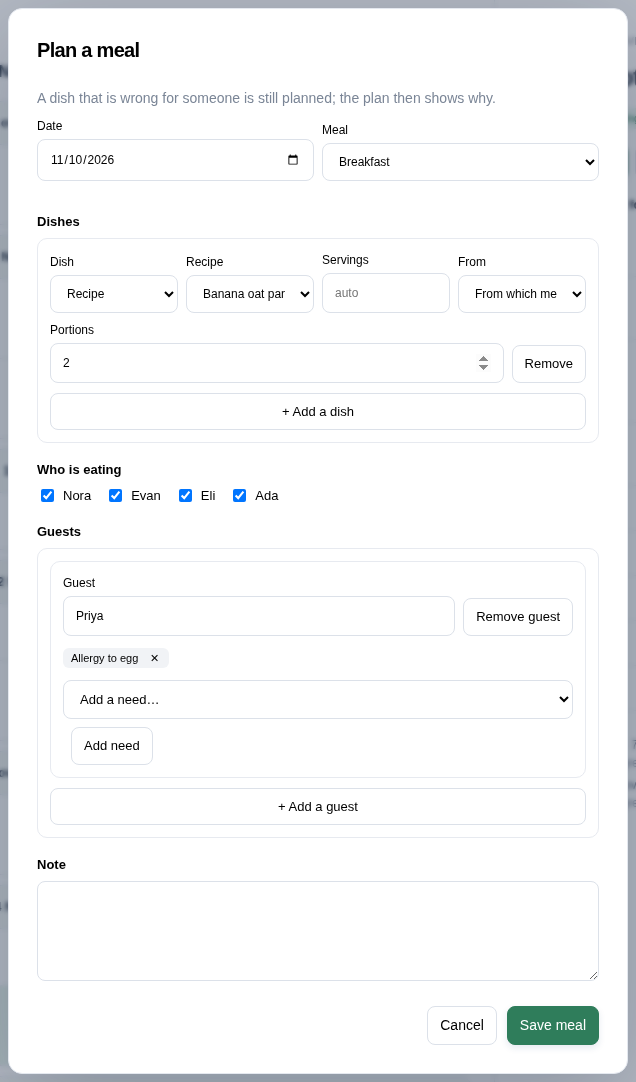
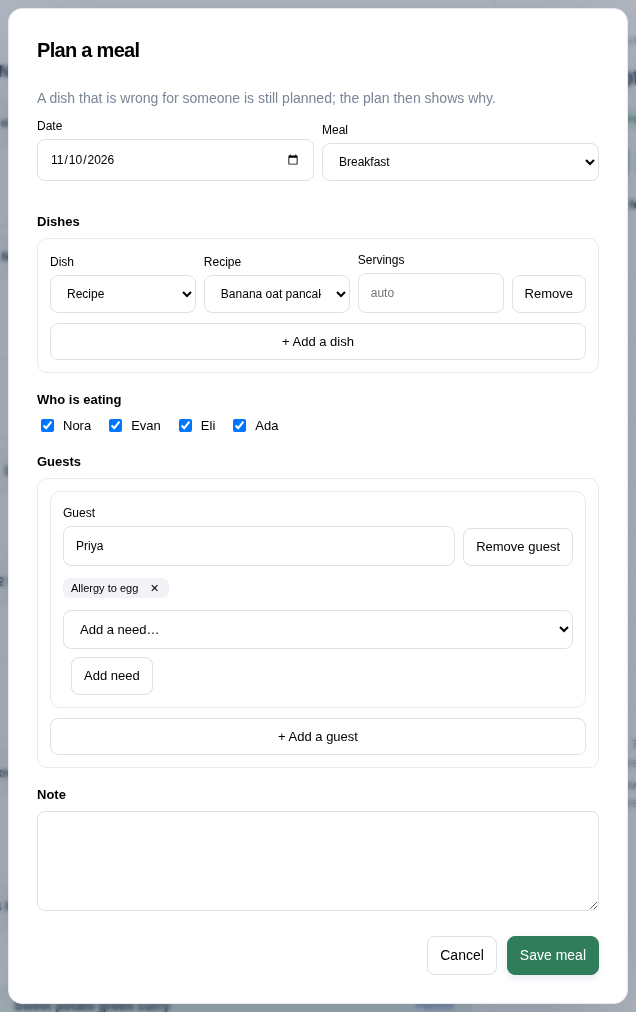
fix(platewright): never render elements the page hides, and check what each form shows
The page's stylesheet starts with a rule that makes the hidden attribute win,
so a recipe dish no longer shows the leftovers-only From and Portions fields
(and a leftovers dish no longer shows Recipe and Servings). The browser test
checks the rendered box and focus of each dish kind's fields, the guest need's
value and each kind of household need. The W4 form frames are captured again.

diff --git a/apps/platewright/gui/src/app.js b/apps/platewright/gui/src/app.js
@@ -24,7 +24,9 @@ const VERDICT={unsafe:'Unsafe',may_contain:'May contain',unsuitable:'Unsuitable'
 
 // App-owned layout rules. The Host serves one shared stylesheet and its CSP allows no inline
 // style element, so the controller adopts a constructed stylesheet built from this constant text.
+// Its first rule makes the hidden attribute win over any display a later rule gives an element.
 const CSS=`
+[hidden]{display:none!important}
 body[data-app=platewright]{--accent:#2f7d5b;--soft:#eaf5ef}
 body[data-app=platewright] .sidebar{background:#f3f6f2}
 body[data-app=platewright] .workspace{grid-template-columns:minmax(0,1.3fr) minmax(320px,1fr)}

diff --git a/apps/platewright/gui/README.md b/apps/platewright/gui/README.md
@@ -35,7 +35,7 @@ Ingredient pickers and ingredient names come from the ingredient table (`ingredi
 - Controls for tools that the run's policy does not list are not shown; the Host refuses such calls anyway.
 - App text is inserted only as text nodes (the shared `el()`); the controller has no HTML parsing, no `eval`, no remote fetch. Option lists and limits come from the live tool schemas (`/api/tools`) where the schema enumerates them (units, method tags, constraint kinds, unit systems); the allergen, diet and nutrient names are the plan's fixed vocabularies, and the App validates every value.
 - Records are shown by name: ingredients, recipes, people and meals ("Sat 14 Nov dinner"), never by their IDs. Dates read "20 Nov 2026" throughout. Times are shown as the household recorded them (wall clock and offset of the timestamp), not converted to the browser's zone.
-- Layout rules specific to Platewright are applied by the controller as a constructed stylesheet built from constant text (the Host serves one shared stylesheet and its content security policy allows no inline style element); no App data goes into CSS. The layout works from 390 px (single column, horizontally scrolling navigation) to desktop widths.
+- Layout rules specific to Platewright are applied by the controller as a constructed stylesheet built from constant text (the Host serves one shared stylesheet and its content security policy allows no inline style element); no App data goes into CSS. Its first rule makes an element with the `hidden` attribute never render, whatever display a later rule gives it (the meal form hides the fields of the other dish kind this way). The layout works from 390 px (single column, horizontally scrolling navigation) to desktop widths.
 
 ## Not in the interface
 
@@ -47,5 +47,5 @@ Ingredient pickers and ingredient names come from the ingredient table (`ingredi
 ## Tests
 
 - `npm run test:web` (in `apps/platewright`): `tests/web-smoke.cjs`, no npm dependency. Starts the shared Host on a fresh run and checks the served files, refused paths and Infra routes, session and CSRF, discovery (exactly the 22 Agent tools), reads for five views, six writes (W1–W5) confirmed by an independent Agent MCP connection, a refusal, a stale version, a retried request ID that commits once, and the scenario profile (reads only, writes refused).
-- `npm run test:web:browser` (needs `npm ci && npx playwright install chromium` at the repository root): `tests/web-browser.cjs` clicks through the same workflows in Chromium, checks that earlier meals that were cleared, changed by another member or joined by a guest show the plan they started from, that the recipe form names a missing method and an over-long tag before sending, escaping of a hostile guest name, guests named in several scripts, at 120 characters, with emoji, with punctuation alone or with the same name (each committed with an ID of its own, kept when the meal is changed again), a guest name over the limit stopped in the form, a meal whose guests have recorded needs changed through "Change meal" (the guests and needs read back unchanged over MCP), a meal marked cooked with a pantry shortfall shown as a note, an item added on the shopping list or in the pantry shown in the detail right after, a dropped response followed by a retry, a stale form, a refusal, an Infra event seen after Refresh, reload persistence, that every view with a record selected shows no record ID, slot ID, ISO date, vocabulary key or missing value, no horizontal overflow at 390 px and 1280 px, no JavaScript errors and the restricted profile; it writes screenshots and `report.json` to `.artifacts/web/platewright/` (or `--output DIR`).
+- `npm run test:web:browser` (needs `npm ci && npx playwright install chromium` at the repository root): `tests/web-browser.cjs` clicks through the same workflows in Chromium, checks that earlier meals that were cleared, changed by another member or joined by a guest show the plan they started from, that the recipe form names a missing method and an over-long tag before sending, escaping of a hostile guest name, guests named in several scripts, at 120 characters, with emoji, with punctuation alone or with the same name (each committed with an ID of its own, kept when the meal is changed again), a guest name over the limit stopped in the form, that a dish shows only the fields of its kind (Recipe and Servings, or From and Portions for leftovers: the other kind's fields have no box and take no focus, and nothing the form hides is rendered), that a guest need and each kind of household need show their own fields, a meal whose guests have recorded needs changed through "Change meal" (the guests and needs read back unchanged over MCP), a meal marked cooked with a pantry shortfall shown as a note, an item added on the shopping list or in the pantry shown in the detail right after, a dropped response followed by a retry, a stale form, a refusal, an Infra event seen after Refresh, reload persistence, that every view with a record selected shows no record ID, slot ID, ISO date, vocabulary key or missing value, no horizontal overflow at 390 px and 1280 px, no JavaScript errors and the restricted profile; it writes screenshots and `report.json` to `.artifacts/web/platewright/` (or `--output DIR`).
 - `node scripts/capture-gui-evidence.cjs [--output DIR] [--zopfli]` (same requirement, not part of `npm test`): captures the ordered workflow sequences of [evidence/README.md](../evidence/README.md) at 1280 px and 390 px into `evidence/gui/`, with each step's action, expected and observed result, the MCP read that confirms it and reload checks in `evidence/gui/sequences.md`.

diff --git a/apps/platewright/evidence/gui/sequences.md b/apps/platewright/evidence/gui/sequences.md
@@ -10,12 +10,12 @@ Workflow W4. Same steps asserted in tests/web-browser.cjs (W4 checks).
 | --- | --- | --- | --- | --- |
 | 1 | [w4-01-week.png](w4-01-week.png) (1280x800) | Open the App: Meal plan, the week of 2–8 Nov 2026 (loaded time Sun 8 Nov, 08:00). | Seven days with each meal, who eats it and its state; earlier days read-only, today marked. | 2 Nov – 8 Nov 2026 |
 | 2 | [w4-02-flags.png](w4-02-flags.png) (1280x800) | Next week (›), select Saturday 14 Nov dinner. | The check names each guest the dish is wrong for and the ingredient lines behind it. | Maya: Unsafe; Ines: Unsuitable, with the lines named |
-| 3 | [w4-03-plan-form.png](w4-03-plan-form.png) (1280x1304) | “+ Plan a meal” on Tuesday 10 Nov; Meal: breakfast; Recipe: Banana pancakes; “+ Add a guest” Priya with an egg allergy. | A modal form with the dish, the members at the table and the guest with her need; nothing is written yet. | Form filled, not sent |
+| 3 | [w4-03-plan-form.png](w4-03-plan-form.png) (1280x1234) | “+ Plan a meal” on Tuesday 10 Nov; Meal: breakfast; Recipe: Banana pancakes; “+ Add a guest” Priya with an egg allergy. | A modal form with the dish, the members at the table and the guest with her need; nothing is written yet. | Form filled, not sent |
 | 4 | [w4-04-planned.png](w4-04-planned.png) (1280x800) | Submit “Save meal”. | The form closes; the meal is on Tuesday and selected, with its guest; a dish wrong for her is planned and flagged, not refused. | MCP plan.get: 2026-11-10:breakfast planned, guest Priya, flags Priya: unsafe; App version {"epoch":1,"revision":0} → {"epoch":1,"revision":1} |
-| 5 | [w4-05-change-form.png](w4-05-change-form.png) (1280x1936) | After a reload, select Saturday 14 Nov dinner (Sweet potato green curry; guests Ines, vegetarian, and Maya, strict tree-nut allergy), “Change meal”, Recipe: Nut-free green curry. | The form opens with the saved dish, the people at the table and each guest with her needs; the dish is switched to the variant. | Dish switched in the form; guests and needs as saved |
+| 5 | [w4-05-change-form.png](w4-05-change-form.png) (1280x1866) | After a reload, select Saturday 14 Nov dinner (Sweet potato green curry; guests Ines, vegetarian, and Maya, strict tree-nut allergy), “Change meal”, Recipe: Nut-free green curry. | The form opens with the saved dish, the people at the table and each guest with her needs; the dish is switched to the variant. | Dish switched in the form; guests and needs as saved |
 | 6 | [w4-06-changed.png](w4-06-changed.png) (1280x800) | Submit “Save meal”. | The guests and their needs are kept; Maya is no longer flagged; the history shows the earlier plan and the change. | MCP: dishes rec-nut-free-green-curry; guests Ines (vegetarian), Kofi, Lea, Maya (strict tree nut); flags Ines: unsuitable; history set, guest_added, replaced |
-| 7 | [w4-07-invalid.png](w4-07-invalid.png) (1280x2156) | “Change meal”, “+ Add a guest” with a 121-character name, submit. | The form names the limit in words and sends nothing. | “Each guest name can be at most 120 characters.”; App version unchanged {"epoch":1,"revision":2} |
-| 8 | [w4-08-stale.png](w4-08-stale.png) (1280x1954) | “Change meal”, type a note; meanwhile another connection commits a pantry write; submit. | The form says the record changed and writes nothing. | “This record changed. Close this form and refresh before trying again.” (data-code stale_version); MCP: the meal has no note |
+| 7 | [w4-07-invalid.png](w4-07-invalid.png) (1280x2086) | “Change meal”, “+ Add a guest” with a 121-character name, submit. | The form names the limit in words and sends nothing. | “Each guest name can be at most 120 characters.”; App version unchanged {"epoch":1,"revision":2} |
+| 8 | [w4-08-stale.png](w4-08-stale.png) (1280x1884) | “Change meal”, type a note; meanwhile another connection commits a pantry write; submit. | The form says the record changed and writes nothing. | “This record changed. Close this form and refresh before trying again.” (data-code stale_version); MCP: the meal has no note |
 | 9 | [w4-09-clear-confirm.png](w4-09-clear-confirm.png) (1280x800) | Refresh, select the breakfast, “Clear”. | A confirmation saying the meal stays in the history as cleared. | Confirmation shown |
 | 10 | [w4-10-cleared.png](w4-10-cleared.png) (1280x800) | “Clear this meal”. | The meal reads Cleared; its history keeps what was planned. | MCP: cleared; history set, cleared |
 | 11 | [w4-11-cook-form.png](w4-11-cook-form.png) (1280x800) | This week, today’s dinner (Chicken noodle soup), “Mark cooked”, tick “Take the ingredients from the pantry”. | Portions made and eaten, and the pantry option. | Form filled |

diff --git a/apps/platewright/evidence/README.md b/apps/platewright/evidence/README.md
@@ -38,7 +38,7 @@ Verdicts: passed / not run / N/A (with reason) / gap. GUI, MCP and business-test
 node apps/platewright/scripts/capture-gui-evidence.cjs --zopfli
 ```
 
-It starts the Host on a fresh run, clicks and types through the page in Chromium, confirms each write with an independent Agent MCP connection to the same run, reloads, applies one Infra event, checks every frame's visible text for record IDs, ISO dates, vocabulary keys and missing values before taking it, and fails on any JavaScript error. `--zopfli` recompresses the PNGs losslessly when `zopflipng` is installed. Each step also exists as an assertion in `tests/web-browser.cjs` (54 checks). Reproducible: the actions, records, versions and observed texts; `sequences.json` and `sequences.md` came out byte-identical on Node 22 and Node 18. Not reproducible byte for byte: the PNGs (42 of 47 were identical between those two runs on one machine; font rendering and anti-aliasing differ between machines and Chromium builds).
+It starts the Host on a fresh run, clicks and types through the page in Chromium, confirms each write with an independent Agent MCP connection to the same run, reloads, applies one Infra event, checks every frame's visible text for record IDs, ISO dates, vocabulary keys and missing values before taking it, and fails on any JavaScript error. `--zopfli` recompresses the PNGs losslessly when `zopflipng` is installed. Each step also exists as an assertion in `tests/web-browser.cjs` (58 checks). Reproducible: the actions, records, versions and observed texts; `sequences.json` and `sequences.md` came out byte-identical on Node 22 and Node 18. Not reproducible byte for byte: the PNGs (42 of 47 were identical between those two runs on one machine; font rendering and anti-aliasing differ between machines and Chromium builds).
 
 ## Reference-product comparison
 

diff --git a/apps/platewright/VALIDATION.md b/apps/platewright/VALIDATION.md
@@ -20,7 +20,7 @@ Every command below was run on Node.js 22.23.1 and 18.20.8 on the final package,
 | `node apps/platewright/scripts/dataset-query.cjs` | every counted record family read back over MCP; identical to `evidence/dataset-query.json` | identical |
 | `node apps/platewright/scripts/capture-gui-evidence.cjs` | 47 frames in 8 sequences, every step confirmed | 47 frames |
 | `npm run test:web` in `apps/platewright` (`tests/web-smoke.cjs`, shared Web Host) | passes | passes |
-| `npm run test:web:browser` in `apps/platewright` (`tests/web-browser.cjs`, Chromium 141.0.7390.37 headless) | 54 of 54 checks pass | 54 of 54 |
+| `npm run test:web:browser` in `apps/platewright` (`tests/web-browser.cjs`, Chromium 141.0.7390.37 headless) | 58 of 58 checks pass | 58 of 58 |
 | `npm run app:verify -- --app apps/platewright` | passed, 45 checks (declarations, including `contribution/gui.json`, load) | passed, 45 checks |
 | `node runtime/ci/select-apps.cjs . a4bce02` | `{"full":false,"ids":["platewright"]}` | same |
 | `node runtime/ci/verify-submissions.cjs . <out> a4bce02` | `platewright: PASS` | `platewright: PASS` |
